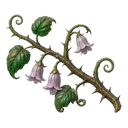
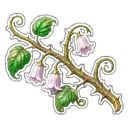
v237: het bloeiende takje, het toverspreukboek en de vonk zijn groter en duidelijker

diff --git a/bundel.js b/bundel.js
@@ -164,7 +164,7 @@ ${T?'<button class="knop volgende" id="gsdirect" style="font-size:1.35em;padding
  <section class="kaart hwblok"><h3>\u{1F4DC} Het verhaal</h3><ul class="hwverh">${g.map((ce,fe)=>{const me=ce.d<=U.i;return`<li class="${me?"":"dicht"}">${me?`<button class="linkknop" data-sc="${fe}">${A.sc[fe]?"":'<b class="hwnieuw">Nieuw</b> '}${ce.t}</button>`:`<span>\u{1F512} ${ce.t}</span><small>vanaf ${i(U.j,ce.d)}</small>`}</li>`}).join("")}</ul></section>
  </div>`);const Q=$("#hwclaim");Q&&(Q.onclick=T),document.querySelectorAll("[data-sc]").forEach(ce=>ce.onclick=()=>{const fe=+ce.dataset.sc;x(g[fe],()=>{A.sc[fe]||(A.sc[fe]=1,s(10,"verhaal"),toast("\u{1F4DC} +10 Pompoensnoepjes van Henk")),V.halloween()})}),document.querySelectorAll(".hwopties [data-o]").forEach(ce=>ce.onclick=()=>{const fe=+ce.dataset.o,me=m[N],Le=$("#hwraadres");if(fe===me[2]){A.raad[N]=1,s(15,"raadsel"),S.galjoenen+=10,bewaar();try{stats(),fx.speel("goed"),vib([20,30,40])}catch{}Le.innerHTML=`<div class="hwgoed">${window.tilly?tilly("<b>Goed zo!</b> "+me[3]):""}<p>+15 Pompoensnoepjes \xB7 +10 Smekkies</p><button class="knop klein" id="hwrv">Verder</button></div>`,document.querySelectorAll(".hwopties button").forEach(He=>He.disabled=!0),$("#hwrv").onclick=()=>V.halloween()}else{ce.disabled=!0,ce.classList.add("mis");try{fx.speel("kras")}catch{}Le.innerHTML='<p class="klein hwhint">Hmm, dat is het niet. Probeer gerust nog eens, er is geen haast.</p>'}})};const Z=V.kamer;Z&&(V.kamer=(...U)=>{const A=Z(...U);try{const N=document.querySelector(".kamer");N&&(S.hwTrofee||[]).length&&!N.querySelector(".hwtrofee")&&N.insertAdjacentHTML("beforeend",`<div class="hwtrofee" title="Gouden Pompoen ${S.hwTrofee.join(", ")}"><img src="img/hw/trofee-256.webp" alt="Gouden Pompoen"><small>Halloween ${S.hwTrofee.join(" \xB7 ")}</small></div>`)}catch{}return A});try{if(typeof KAARTEN<"u"&&!KAARTEN.some(U=>U[0]==L)&&(KAARTEN.push([L,"Z","Het huisspook van Griffoendor. Zijn hoofd hangt nog aan \xE9\xE9n reepje vel. Op 31 oktober vierde hij zijn vijfhonderdste sterfdag, en jij was erbij.","img/kaarten/haast-onthoofde-henk.webp","Feestdagen",1]),window.KAARTSERIES&&!KAARTSERIES.includes("Feestdagen")&&KAARTSERIES.push("Feestdagen")),typeof trekKaart=="function"){const U=trekKaart;trekKaart=function(){let A;for(let N=0;N<30;N++)if(A=U(),!A||!A[5])return A;return KAARTEN.find(N=>!N[5])}}}catch(U){console.warn(U)}const ee=V.maker;ee&&(V.maker=(...U)=>{const A=ee(...U);try{const N=o(),Q=localStorage.getItem("zw_hwdatum")||"";$("#app").insertAdjacentHTML("beforeend",`<section class="kaart sierlijst"><h3>Halloween (test)</h3><p class="klein">Nu: ${N.d.toLocaleDateString("nl-NL",{weekday:"long",day:"numeric",month:"long"})} \xB7 ${N.aan?"event AAN (dag "+(N.i+1)+" van 9"+(N.feest?", feestdag":"")+")":"event uit"}${Q?" \xB7 <b>testdatum</b>":""} \xB7 ${(S.hw&&S.hw.tot)|0} snoepjes, stap ${(S.hw&&S.hw.stap)|0}/10</p>
   <p><input type="date" id="hwdat" value="${Q||N.d.getFullYear()+"-"+e(N.d.getMonth()+1)+"-"+e(N.d.getDate())}"> <button class="knop klein" id="hwzet">Gebruik datum</button> <button class="knop klein" id="hwecht">Echte datum</button></p>
-  <p><button class="knop klein" id="hw100">+100 snoepjes</button> <button class="knop klein" id="hwwis">Halloween-voortgang wissen</button></p></section>`),$("#hwzet").onclick=()=>{localStorage.setItem("zw_hwdatum",$("#hwdat").value),te(),V.maker()},$("#hwecht").onclick=()=>{localStorage.removeItem("zw_hwdatum"),te(),V.maker()},$("#hw100").onclick=()=>{s(100,"test"),V.maker()},$("#hwwis").onclick=()=>{delete S.hw,bewaar(),V.maker()}}catch(N){console.warn(N)}return A})})(),(function(){const e="v236";window.ZW_VERSIE=e;const n=()=>`<p class="zwversie">Zweinstein Luna ${e}</p>`,a=V.meer;a&&(V.meer=(...i)=>{const r=a(...i);try{const l=$("#app");l&&!l.querySelector(".zwversie")&&l.insertAdjacentHTML("beforeend",n())}catch{}return r});const o=V.maker;o&&(V.maker=(...i)=>{const r=o(...i);try{const l=$("#app h2");l&&!$("#app .zwversie")&&l.insertAdjacentHTML("afterend",n())}catch{}return r})})(),(()=>{if(typeof m3Winst!="function"||typeof Bord>"u")return;const e=matchMedia("(prefers-reduced-motion: reduce)").matches,n=h=>new Promise(f=>setTimeout(f,h));let a=0,o=0;function i(){let h=document.getElementById("m3sc");if(!h){const f=document.querySelector(".m3mid .m3titel");if(!f)return null;f.insertAdjacentHTML("afterend",'<div class="m3score">Score <b id="m3sc">0</b></div>'),h=document.getElementById("m3sc"),a=0}return h}setInterval(()=>{try{if(typeof M3>"u"||!M3.b||M3.b.sim||document.body.dataset.view!=="match3")return;const h=i();if(!h)return;o=M3.b.score|0,a>o&&(a=o),a<o&&(a=Math.min(o,a+Math.max(5,Math.ceil((o-a)/4))),h.textContent=a.toLocaleString("nl-NL")),p(M3.b)}catch{}},60);let r=null,l=-1;function p(h){const f=document.getElementById("m3bv");if(!f||!h._grens)return;r!==h&&(r=h,l=-1);const K=Math.min(100,a/h._max*100);Math.abs(K-l)>=.2&&(l=K,f.style.width=K.toFixed(1)+"%");const E=document.querySelectorAll("#m3balk .m3bs"),g=[h.klaar&&h.klaar(),a>=h._grens[0],a>=h._grens[1]];E.forEach((x,m)=>{if(g[m]&&!x.classList.contains("aan")){if(x.classList.add("aan","pop"),setTimeout(()=>x.classList.remove("pop"),600),m)try{fx.speel("munt")}catch{}}else!g[m]&&x.classList.contains("aan")&&x.classList.remove("aan")})}const w=h=>{const f=[];for(let K=0;K<RIJEN;K++)for(let E=0;E<KOL;E++){const g=h.g[K][E];g&&g.k>=0&&!g.s&&!h.kist[K][E]&&!(h.strik&&h.strik[K][E])&&f.push([K,E])}return f},y=h=>{const f=[];for(let K=0;K<RIJEN;K++)for(let E=0;E<KOL;E++){const g=h.g[K][E];g&&g.s&&!h.kist[K][E]&&!(h.strik&&h.strik[K][E])&&f.push([K,E])}return f};function d(h,f,K){if(e||!h||!f)return;const E=document.createElement("div");E.className="m3vonk",document.body.appendChild(E);const g=f[0]-h[0],x=f[1]-h[1];E.style.left=h[0]+"px",E.style.top=h[1]+"px",E.animate([{transform:"translate(-50%,-50%) scale(.6)",opacity:.2},{transform:`translate(calc(${g*.5}px - 50%),calc(${x*.5-40}px - 50%)) scale(1.1)`,opacity:1,offset:.5},{transform:`translate(calc(${g}px - 50%),calc(${x}px - 50%)) scale(.7)`,opacity:.9}],{duration:K,easing:"cubic-bezier(.4,0,.3,1)",fill:"forwards"}).onfinish=()=>E.remove(),setTimeout(()=>E.remove(),K+400)}function j(h,f,K){const E=document.createElement("div");E.className="m3plus",E.textContent=K,E.style.left=h+"px",E.style.top=f+"px",document.body.appendChild(E),setTimeout(()=>E.remove(),900)}async function u(h){const f={pop:0,boem:0,spec:0,score0:h.score|0};window._feestLog=f;const K=document.getElementById("m3c"),E=document.getElementById("m3z");if(!K||!E)return;const g=(h._feestZet!=null?h._feestZet:h.zet)|0;let x=g,m=1,k=0;h.telDoel=()=>{},h.zaadKist=1;const v=h.fx.push;h.fx.push=function(...se){return v.apply(this,se.map(ae=>ae&&ae.t=="schat"?{t:"tik",r:ae.r,c:ae.c,s:ae.s}:ae&&ae.t=="vrij"?{t:"plank",r:ae.r,c:ae.c,over:0}:ae))},h.wacht=se=>new Promise(ae=>setTimeout(ae,se/m));const s=document.createElement("div");s.id="m3feest",s.innerHTML="<span>Tik om te versnellen</span>",document.body.appendChild(s),s.addEventListener("pointerdown",se=>{se.preventDefault(),k++,m=Math.min(12,k==1?3.5:m*1.7),s.classList.add("snel"),s.querySelector("span").textContent=m>=6?"\u23E9\u23E9 Supersnel":"\u23E9 Sneller";try{fx.speel("whoosh")}catch{}});const z=()=>K.getBoundingClientRect(),c=()=>z().width/KOL,b=(se,ae)=>{const te=z(),pe=te.width/KOL;return[te.left+(ae+.5)*pe,te.top+(se+.5)*pe]},M=()=>{const se=E.getBoundingClientRect();return[se.left+se.width/2,se.top+se.height/2]},R=Math.max(70,Math.min(170,4200/Math.max(1,g)));try{for(let te=1;te<=g;te++){const pe=w(h);if(!pe.length)break;const ne=R/m,X=pe[Math.random()*pe.length|0];d(M(),b(...X),Math.max(60,ne*1.1)),x--,E.textContent=x,E.parentNode.classList.toggle("weinig",!1),await n(Math.max(40,ne*1.05));const[t,_]=X;if(te%5===0){const O=[];for(let de=t-1;de<=t+1;de++)for(let C=_-1;C<=_+1;C++)if(h.binnen(de,C)){const T=h.g[de][C];T&&T.k>=0&&!T.s&&!h.kist[de][C]&&!(h.strik&&h.strik[de][C])&&O.push([de,C,T.k])}O.forEach(([de,C,T])=>{h.g[de][C].weg=1,h.g[de][C]=null,h.fx.push({t:"pof",r:de,c:C,k:T})}),h.fx.push({t:"bom",r:t,c:_,R:1});const D=60*O.length+200;h.score+=D,f.boem++;const q=b(t,_);j(q[0],q[1],"+"+D);try{fx.speel("kist")}catch{}}else{const O=h.g[t][_];O&&(O.weg=1,h.g[t][_]=null,h.fx.push({t:"pof",r:t,c:_,k:O.k})),h.score+=100,f.pop++;const D=b(t,_);te%2&&j(D[0],D[1],"+100");try{fx.speel("klik")}catch{}}try{M3.toonFx()}catch{}h.val()}E.textContent=0,await n(Math.max(60,260/m)),await M3.knal([]);const se=Date.now();let ae=0;for(;ae<30&&Date.now()-se<9e3;){const te=y(h);if(!te.length)break;const pe=te.sort((_,O)=>_[0]-O[0]||_[1]-O[1])[0],ne=b(...pe),X=h.score;if(!await M3.knal([pe])){await n(120),ae++;continue}h.score+=150,f.spec++,ae++,j(ne[0],ne[1],"+"+(h.score-X|0));try{fx.speel("tover")}catch{}await n(Math.max(40,180/m))}await n(Math.max(80,350/m))}catch(se){console.warn(se)}finally{s.remove(),delete h.telDoel,delete h.wacht,h.fx.push=v,E.textContent=g,f.score=h.score|0,f.sp=m;const se=i();se&&(a=h.score|0,se.textContent=a.toLocaleString("nl-NL"))}}const L=m3Winst;window.m3Winst=m3Winst=function(h,f,...K){let E=!1;try{E=!!(f&&!f.sim&&!f._feest&&f.zet>0&&typeof M3<"u"&&M3.b===f&&M3.knal&&document.getElementById("m3c")&&document.body.dataset.view==="match3")}catch{}const g=()=>{let k;try{k=L.call(this,h,f,...K)}finally{try{ECO.winKlaar(h)}catch{}}try{const v=f.score|0,s=document.querySelector(".m3eind h2");s&&v&&!document.querySelector(".m3eindscore")&&s.insertAdjacentHTML("afterend",`<p class="m3eindscore">Score <b>${v.toLocaleString("nl-NL")}</b></p>`)}catch{}return k};if(!E)return g();f._feest=1;try{ECO.winStart(h,f)}catch{}let x=!1;const m=()=>{x||(x=!0,g())};u(f).catch(k=>console.warn(k)).finally(m),setTimeout(m,3e4)}})(),(()=>{if(typeof V>"u"||!V.mijnkas)return;const e=m=>typeof m=="function",n=()=>S.m3lvl|0,a=m=>typeof ZADEN<"u"&&ZADEN[m]?ZADEN[m][0]:m,o=()=>Date.now(),i=[1e3,1600,2400,3200],r=["de groene kruidenpot","de Edelsteenpot","de Kristalpot","de Hartpot"];function l(){const m=[];return document.querySelectorAll(".mk-pot[data-i]").forEach(k=>m.push({i:+k.dataset.i,el:k,sel:`.mk-pot[data-i="${k.dataset.i}"]`})),document.querySelectorAll(".mk-vloer[data-m]").forEach(k=>{const v=+k.dataset.m;S.mega&&S.mega[v]||m.push({i:200+v,el:k,sel:`.mk-vloer[data-m="${v}"]`})}),m}const p=m=>(S.kweek||{})[m]||null,w=m=>e(window.stadium)||typeof stadium=="function"?stadium(m):-1;function y(m){return Object.keys(S.zaden||{}).filter(k=>(S.zaden[k]|0)>0&&typeof ZADEN<"u"&&ZADEN[k]&&(typeof kruidMag!="function"||kruidMag(k,m)))}function d(){if(typeof ZADEN>"u")return null;let m=null;return Object.entries(ZADEN).forEach(([k,v])=>{window.SUPERPLANTEN&&SUPERPLANTEN[k]||window.zaadDicht&&zaadDicht(k)||typeof kruidSlot=="function"&&kruidSlot(k)||(!m||v[3]<m[1])&&(m=[k,v[3]])}),m}function j(){const m=[],k=l(),v=k.filter(te=>!p(te.i)),s=k.filter(te=>p(te.i)&&w(p(te.i))<4),z=k.filter(te=>p(te.i)&&w(p(te.i))==4),c=S.galjoenen|0,b=window.leraarPoort&&leraarPoort();if(b){const te=i[0];m.push({id:"poort",ico:"\u{1FAB4}",wie:b.prof,tekst:c>=te?`Koop ${r[0]} bij Potten. Dan gaat level ${b.na+1} open.`:`Spaar voor ${r[0]}. Daarna gaat level ${b.na+1} open.`,tel:`${Math.min(c,te)}/${te}`,doel:"#potwinkel",doen:c>=te})}if(z.length){const te=z[0];m.push({id:"oogst",ico:"\u{1F33F}",tekst:z.length>1?`Oogst je planten! ${a(p(te.i).z)} is klaar, en nog ${z.length-1} andere.`:`Oogst je ${a(p(te.i).z)}. Hij is klaar!`,tel:null,doel:te.sel,doen:!0})}if(e(window.kOpdr)||typeof kOpdr=="function")try{const te=kOpdr(),pe=te[0],ne=window.zaadDicht&&zaadDicht(pe),X=typeof kruidSlot=="function"&&kruidSlot(pe),t=kOpdrTel();if(ne||X)m.push({id:"opdr",ico:"\u{1F4DC}",wie:te[3],tekst:te[2],tel:`${t}/${te[1]}`,dicht:ne?`Vanaf level ${ne}`:"Eerst de groene kruidenpot"});else{const _=s.find(C=>p(C.i).z===pe),O=v.find(C=>typeof kruidMag!="function"||kruidMag(pe,C.i));let D,q=null,de=!1;z.some(C=>p(C.i).z===pe)?(D=`Oogst je ${a(pe)}.`,q=z.find(C=>p(C.i).z===pe).sel,de=!0):_?(D=`Je ${a(pe)} groeit. Nog ${tijd(rest(p(_.i)))}.`,q=_.sel):(S.zaden[pe]|0)>0&&O?(D=`Plant een ${a(pe)}-zaadje.`,q=O.sel,de=!0):(S.zaden[pe]|0)>0?D=`Plant een ${a(pe)}-zaadje zodra er een pot vrij is.`:c>=ZADEN[pe][3]?(D=`Koop een ${a(pe)}-zaadje in de Winkel.`,q="#balkwinkel",de=!0):D=`Speel een level voor Smekkies voor een ${a(pe)}-zaadje.`,m.push({id:"opdr",ico:"\u{1F4DC}",wie:te[3],tekst:`${te[2]}. ${D}`,tel:`${t}/${te[1]}`,doel:q,doen:de})}}catch{}if(v.length){const te=v[0];if(y(te.i).length)m.push({id:"plant",ico:"\u{1F331}",tekst:"Plant een zaadje in je lege pot.",tel:null,doel:te.sel,doen:!0});else{const ne=d();ne&&c>=ne[1]&&m.push({id:"zaad",ico:"\u{1F6CD}\uFE0F",tekst:`Koop zaadjes in de Winkel (${a(ne[0])} kost ${ne[1]} Smekkies).`,doel:"#balkwinkel",doen:!0})}}const M=te=>window.spreukGeleerd&&spreukGeleerd(te),R=te=>!window.spreukOpen||spreukOpen(te),se=window.SPREUK_VAN||{flipendo:3,leviosa:6};if(window.waterMag&&waterMag())if(!S.kooiOpen)m.push({id:"kooi",ico:"\u{1F513}",tekst:"Open de kooi: tik op de knop met Flipendo naast het blok.",doel:".mk-kooiknop",doen:!0});else{const te=document.querySelector(".mk-kamer"),pe=te&&te.classList.contains("sproei"),X=1-((S.water||{}).blok|0),t=document.querySelector(`.mk-silos .mk-unit[data-i="${X}"] span`),_=t&&parseInt(t.textContent)>=100;!pe&&_&&m.push({id:"blok",ico:"\u{1F4A7}",tekst:"Een silo is vol! Laat het blok met Wingardium Leviosa naar de knop bij die silo zweven.",doel:".mk-blok",doen:!0})}else for(const[te,pe]of[["flipendo","Flipendo"],["leviosa","Wingardium Leviosa"]])if(!M(te)){R(te)?m.push({id:"les-"+te,ico:"\u{1FA84}",wie:"Professor Banning",tekst:`Leer ${pe} bij Professor Banning. Dan kan het water in je kas aan.`,doel:".mk-leviosa .knop",doen:!0}):m.push({id:"les-"+te,ico:"\u{1FA84}",wie:"Professor Banning",tekst:`Leer ${pe} voor de sproeiers.`,dicht:`Vanaf level ${se[te]}`});break}if(!document.querySelector(".mk-kamer.sproei")){const te=s.find(pe=>!(p(pe.i).nat>o()));te&&m.push({id:"water",ico:"\u{1F4A6}",tekst:`Geef je ${a(p(te.i).z)} water. Dan groeit hij 25% sneller.`,doel:te.sel,doen:!0})}try{const te=ne=>typeof telV=="function"?telV("oogst",ne):0;if(typeof dagQuests=="function"){const ne=dagQuests().find(X=>X[0]==="oogst");ne&&!(S.questKlaar||{})[vandaag()+"oogst"]&&te(0)<ne[1]&&m.push({id:"quest",ico:"\u{1F4CB}",tekst:ne[2]+".",tel:`${Math.min(ne[1],te(0))}/${ne[1]}`,info:1})}if((((S.tel||{})[vandaag()]||{}).oogst|0)<1&&m.push({id:"dagdoel",ico:"\u2B50",tekst:"Dagdoel: oogst vandaag een plant.",tel:"0/1",info:1}),typeof WEEKQ<"u"){const ne=WEEKQ.find(X=>X[0]==="oogst");ne&&te(1)<ne[1]&&m.push({id:"week",ico:"\u{1F4C5}",tekst:ne[2]+".",tel:`${Math.min(ne[1],te(1))}/${ne[1]}`,info:1})}}catch{}if(!b){const te=S.potUpgrade|0,pe=n()>=101||!!S.groteTafel||te>=3;te<4&&(te<2||pe)&&c>=i[te]&&m.push({id:"pot",ico:"\u{1F3FA}",tekst:`Je kunt ${r[te]} kopen bij Potten (${i[te]} Smekkies). Dan heb je plek voor een plant meer.`,doel:"#potwinkel",doen:!0})}return{T:m,groei:s}}function u(m){if(!m.length)return"Alles gedaan! Speel een level, dan verdien je Smekkies voor nieuwe zaadjes.";const k=Math.min(...m.map(v=>rest(p(v.i))));return`Alles gedaan! Kom terug als je planten klaar zijn (over ${tijd(k)}).`}let L=!1,h="";const f=m=>String(m).replace(/[&<>"]/g,k=>({"&":"&amp;","<":"&lt;",">":"&gt;",'"':"&quot;"})[k]);function K(m){if(document.body.dataset.view!=="mijnkas")return;const k=document.getElementById("app");if(!k||!k.querySelector(".mk-kamer"))return;const{T:v,groei:s}=j(),c=v.filter(ae=>ae.doen&&!ae.dicht)[0]||null,b=v.filter(ae=>ae!==c),M=JSON.stringify([L,v.map(ae=>[ae.id,ae.tekst,ae.tel,ae.dicht]),c?"":u(s)]);if(!m&&M===h&&document.getElementById("kastaak"))return;h=M;let R=document.getElementById("kastaak");R||(R=document.createElement("section"),R.id="kastaak",R.className="kastaak",k.appendChild(R));const se=ae=>`<li class="${ae.dicht?"dicht":""}${ae.info?" info":""}"><span class="kt-ico">${ae.ico}</span><span class="kt-txt">${ae.wie&&!ae.tekst.includes(ae.wie)?`<b>${f(ae.wie)}:</b> `:""}${f(ae.tekst)}${ae.dicht?` <em class="kt-slot">\u{1F512} ${f(ae.dicht)}</em>`:""}</span>${ae.tel?`<span class="kt-tel">${ae.tel}</span>`:""}${ae.doel&&!ae.dicht?`<button type="button" class="kt-wijs" data-doel="${f(ae.doel)}" aria-label="Laat zien waar">\u279C</button>`:""}</li>`;R.innerHTML=`<div class="kt-kop" role="button" aria-expanded="${L}"><span class="kt-label">${c?"Volgende stap":"Klaar voor nu"}</span>${b.length?`<span class="kt-meer">${L?"Minder \u25B4":`Nog ${b.length} \u25BE`}</span>`:""}</div>
+  <p><button class="knop klein" id="hw100">+100 snoepjes</button> <button class="knop klein" id="hwwis">Halloween-voortgang wissen</button></p></section>`),$("#hwzet").onclick=()=>{localStorage.setItem("zw_hwdatum",$("#hwdat").value),te(),V.maker()},$("#hwecht").onclick=()=>{localStorage.removeItem("zw_hwdatum"),te(),V.maker()},$("#hw100").onclick=()=>{s(100,"test"),V.maker()},$("#hwwis").onclick=()=>{delete S.hw,bewaar(),V.maker()}}catch(N){console.warn(N)}return A})})(),(function(){const e="v237";window.ZW_VERSIE=e;const n=()=>`<p class="zwversie">Zweinstein Luna ${e}</p>`,a=V.meer;a&&(V.meer=(...i)=>{const r=a(...i);try{const l=$("#app");l&&!l.querySelector(".zwversie")&&l.insertAdjacentHTML("beforeend",n())}catch{}return r});const o=V.maker;o&&(V.maker=(...i)=>{const r=o(...i);try{const l=$("#app h2");l&&!$("#app .zwversie")&&l.insertAdjacentHTML("afterend",n())}catch{}return r})})(),(()=>{if(typeof m3Winst!="function"||typeof Bord>"u")return;const e=matchMedia("(prefers-reduced-motion: reduce)").matches,n=h=>new Promise(f=>setTimeout(f,h));let a=0,o=0;function i(){let h=document.getElementById("m3sc");if(!h){const f=document.querySelector(".m3mid .m3titel");if(!f)return null;f.insertAdjacentHTML("afterend",'<div class="m3score">Score <b id="m3sc">0</b></div>'),h=document.getElementById("m3sc"),a=0}return h}setInterval(()=>{try{if(typeof M3>"u"||!M3.b||M3.b.sim||document.body.dataset.view!=="match3")return;const h=i();if(!h)return;o=M3.b.score|0,a>o&&(a=o),a<o&&(a=Math.min(o,a+Math.max(5,Math.ceil((o-a)/4))),h.textContent=a.toLocaleString("nl-NL")),p(M3.b)}catch{}},60);let r=null,l=-1;function p(h){const f=document.getElementById("m3bv");if(!f||!h._grens)return;r!==h&&(r=h,l=-1);const K=Math.min(100,a/h._max*100);Math.abs(K-l)>=.2&&(l=K,f.style.width=K.toFixed(1)+"%");const E=document.querySelectorAll("#m3balk .m3bs"),g=[h.klaar&&h.klaar(),a>=h._grens[0],a>=h._grens[1]];E.forEach((x,m)=>{if(g[m]&&!x.classList.contains("aan")){if(x.classList.add("aan","pop"),setTimeout(()=>x.classList.remove("pop"),600),m)try{fx.speel("munt")}catch{}}else!g[m]&&x.classList.contains("aan")&&x.classList.remove("aan")})}const w=h=>{const f=[];for(let K=0;K<RIJEN;K++)for(let E=0;E<KOL;E++){const g=h.g[K][E];g&&g.k>=0&&!g.s&&!h.kist[K][E]&&!(h.strik&&h.strik[K][E])&&f.push([K,E])}return f},y=h=>{const f=[];for(let K=0;K<RIJEN;K++)for(let E=0;E<KOL;E++){const g=h.g[K][E];g&&g.s&&!h.kist[K][E]&&!(h.strik&&h.strik[K][E])&&f.push([K,E])}return f};function d(h,f,K){if(e||!h||!f)return;const E=document.createElement("div");E.className="m3vonk",document.body.appendChild(E);const g=f[0]-h[0],x=f[1]-h[1];E.style.left=h[0]+"px",E.style.top=h[1]+"px",E.animate([{transform:"translate(-50%,-50%) scale(.6)",opacity:.2},{transform:`translate(calc(${g*.5}px - 50%),calc(${x*.5-40}px - 50%)) scale(1.1)`,opacity:1,offset:.5},{transform:`translate(calc(${g}px - 50%),calc(${x}px - 50%)) scale(.7)`,opacity:.9}],{duration:K,easing:"cubic-bezier(.4,0,.3,1)",fill:"forwards"}).onfinish=()=>E.remove(),setTimeout(()=>E.remove(),K+400)}function j(h,f,K){const E=document.createElement("div");E.className="m3plus",E.textContent=K,E.style.left=h+"px",E.style.top=f+"px",document.body.appendChild(E),setTimeout(()=>E.remove(),900)}async function u(h){const f={pop:0,boem:0,spec:0,score0:h.score|0};window._feestLog=f;const K=document.getElementById("m3c"),E=document.getElementById("m3z");if(!K||!E)return;const g=(h._feestZet!=null?h._feestZet:h.zet)|0;let x=g,m=1,k=0;h.telDoel=()=>{},h.zaadKist=1;const v=h.fx.push;h.fx.push=function(...se){return v.apply(this,se.map(ae=>ae&&ae.t=="schat"?{t:"tik",r:ae.r,c:ae.c,s:ae.s}:ae&&ae.t=="vrij"?{t:"plank",r:ae.r,c:ae.c,over:0}:ae))},h.wacht=se=>new Promise(ae=>setTimeout(ae,se/m));const s=document.createElement("div");s.id="m3feest",s.innerHTML="<span>Tik om te versnellen</span>",document.body.appendChild(s),s.addEventListener("pointerdown",se=>{se.preventDefault(),k++,m=Math.min(12,k==1?3.5:m*1.7),s.classList.add("snel"),s.querySelector("span").textContent=m>=6?"\u23E9\u23E9 Supersnel":"\u23E9 Sneller";try{fx.speel("whoosh")}catch{}});const z=()=>K.getBoundingClientRect(),c=()=>z().width/KOL,b=(se,ae)=>{const te=z(),pe=te.width/KOL;return[te.left+(ae+.5)*pe,te.top+(se+.5)*pe]},M=()=>{const se=E.getBoundingClientRect();return[se.left+se.width/2,se.top+se.height/2]},R=Math.max(70,Math.min(170,4200/Math.max(1,g)));try{for(let te=1;te<=g;te++){const pe=w(h);if(!pe.length)break;const ne=R/m,X=pe[Math.random()*pe.length|0];d(M(),b(...X),Math.max(60,ne*1.1)),x--,E.textContent=x,E.parentNode.classList.toggle("weinig",!1),await n(Math.max(40,ne*1.05));const[t,_]=X;if(te%5===0){const O=[];for(let de=t-1;de<=t+1;de++)for(let C=_-1;C<=_+1;C++)if(h.binnen(de,C)){const T=h.g[de][C];T&&T.k>=0&&!T.s&&!h.kist[de][C]&&!(h.strik&&h.strik[de][C])&&O.push([de,C,T.k])}O.forEach(([de,C,T])=>{h.g[de][C].weg=1,h.g[de][C]=null,h.fx.push({t:"pof",r:de,c:C,k:T})}),h.fx.push({t:"bom",r:t,c:_,R:1});const D=60*O.length+200;h.score+=D,f.boem++;const q=b(t,_);j(q[0],q[1],"+"+D);try{fx.speel("kist")}catch{}}else{const O=h.g[t][_];O&&(O.weg=1,h.g[t][_]=null,h.fx.push({t:"pof",r:t,c:_,k:O.k})),h.score+=100,f.pop++;const D=b(t,_);te%2&&j(D[0],D[1],"+100");try{fx.speel("klik")}catch{}}try{M3.toonFx()}catch{}h.val()}E.textContent=0,await n(Math.max(60,260/m)),await M3.knal([]);const se=Date.now();let ae=0;for(;ae<30&&Date.now()-se<9e3;){const te=y(h);if(!te.length)break;const pe=te.sort((_,O)=>_[0]-O[0]||_[1]-O[1])[0],ne=b(...pe),X=h.score;if(!await M3.knal([pe])){await n(120),ae++;continue}h.score+=150,f.spec++,ae++,j(ne[0],ne[1],"+"+(h.score-X|0));try{fx.speel("tover")}catch{}await n(Math.max(40,180/m))}await n(Math.max(80,350/m))}catch(se){console.warn(se)}finally{s.remove(),delete h.telDoel,delete h.wacht,h.fx.push=v,E.textContent=g,f.score=h.score|0,f.sp=m;const se=i();se&&(a=h.score|0,se.textContent=a.toLocaleString("nl-NL"))}}const L=m3Winst;window.m3Winst=m3Winst=function(h,f,...K){let E=!1;try{E=!!(f&&!f.sim&&!f._feest&&f.zet>0&&typeof M3<"u"&&M3.b===f&&M3.knal&&document.getElementById("m3c")&&document.body.dataset.view==="match3")}catch{}const g=()=>{let k;try{k=L.call(this,h,f,...K)}finally{try{ECO.winKlaar(h)}catch{}}try{const v=f.score|0,s=document.querySelector(".m3eind h2");s&&v&&!document.querySelector(".m3eindscore")&&s.insertAdjacentHTML("afterend",`<p class="m3eindscore">Score <b>${v.toLocaleString("nl-NL")}</b></p>`)}catch{}return k};if(!E)return g();f._feest=1;try{ECO.winStart(h,f)}catch{}let x=!1;const m=()=>{x||(x=!0,g())};u(f).catch(k=>console.warn(k)).finally(m),setTimeout(m,3e4)}})(),(()=>{if(typeof V>"u"||!V.mijnkas)return;const e=m=>typeof m=="function",n=()=>S.m3lvl|0,a=m=>typeof ZADEN<"u"&&ZADEN[m]?ZADEN[m][0]:m,o=()=>Date.now(),i=[1e3,1600,2400,3200],r=["de groene kruidenpot","de Edelsteenpot","de Kristalpot","de Hartpot"];function l(){const m=[];return document.querySelectorAll(".mk-pot[data-i]").forEach(k=>m.push({i:+k.dataset.i,el:k,sel:`.mk-pot[data-i="${k.dataset.i}"]`})),document.querySelectorAll(".mk-vloer[data-m]").forEach(k=>{const v=+k.dataset.m;S.mega&&S.mega[v]||m.push({i:200+v,el:k,sel:`.mk-vloer[data-m="${v}"]`})}),m}const p=m=>(S.kweek||{})[m]||null,w=m=>e(window.stadium)||typeof stadium=="function"?stadium(m):-1;function y(m){return Object.keys(S.zaden||{}).filter(k=>(S.zaden[k]|0)>0&&typeof ZADEN<"u"&&ZADEN[k]&&(typeof kruidMag!="function"||kruidMag(k,m)))}function d(){if(typeof ZADEN>"u")return null;let m=null;return Object.entries(ZADEN).forEach(([k,v])=>{window.SUPERPLANTEN&&SUPERPLANTEN[k]||window.zaadDicht&&zaadDicht(k)||typeof kruidSlot=="function"&&kruidSlot(k)||(!m||v[3]<m[1])&&(m=[k,v[3]])}),m}function j(){const m=[],k=l(),v=k.filter(te=>!p(te.i)),s=k.filter(te=>p(te.i)&&w(p(te.i))<4),z=k.filter(te=>p(te.i)&&w(p(te.i))==4),c=S.galjoenen|0,b=window.leraarPoort&&leraarPoort();if(b){const te=i[0];m.push({id:"poort",ico:"\u{1FAB4}",wie:b.prof,tekst:c>=te?`Koop ${r[0]} bij Potten. Dan gaat level ${b.na+1} open.`:`Spaar voor ${r[0]}. Daarna gaat level ${b.na+1} open.`,tel:`${Math.min(c,te)}/${te}`,doel:"#potwinkel",doen:c>=te})}if(z.length){const te=z[0];m.push({id:"oogst",ico:"\u{1F33F}",tekst:z.length>1?`Oogst je planten! ${a(p(te.i).z)} is klaar, en nog ${z.length-1} andere.`:`Oogst je ${a(p(te.i).z)}. Hij is klaar!`,tel:null,doel:te.sel,doen:!0})}if(e(window.kOpdr)||typeof kOpdr=="function")try{const te=kOpdr(),pe=te[0],ne=window.zaadDicht&&zaadDicht(pe),X=typeof kruidSlot=="function"&&kruidSlot(pe),t=kOpdrTel();if(ne||X)m.push({id:"opdr",ico:"\u{1F4DC}",wie:te[3],tekst:te[2],tel:`${t}/${te[1]}`,dicht:ne?`Vanaf level ${ne}`:"Eerst de groene kruidenpot"});else{const _=s.find(C=>p(C.i).z===pe),O=v.find(C=>typeof kruidMag!="function"||kruidMag(pe,C.i));let D,q=null,de=!1;z.some(C=>p(C.i).z===pe)?(D=`Oogst je ${a(pe)}.`,q=z.find(C=>p(C.i).z===pe).sel,de=!0):_?(D=`Je ${a(pe)} groeit. Nog ${tijd(rest(p(_.i)))}.`,q=_.sel):(S.zaden[pe]|0)>0&&O?(D=`Plant een ${a(pe)}-zaadje.`,q=O.sel,de=!0):(S.zaden[pe]|0)>0?D=`Plant een ${a(pe)}-zaadje zodra er een pot vrij is.`:c>=ZADEN[pe][3]?(D=`Koop een ${a(pe)}-zaadje in de Winkel.`,q="#balkwinkel",de=!0):D=`Speel een level voor Smekkies voor een ${a(pe)}-zaadje.`,m.push({id:"opdr",ico:"\u{1F4DC}",wie:te[3],tekst:`${te[2]}. ${D}`,tel:`${t}/${te[1]}`,doel:q,doen:de})}}catch{}if(v.length){const te=v[0];if(y(te.i).length)m.push({id:"plant",ico:"\u{1F331}",tekst:"Plant een zaadje in je lege pot.",tel:null,doel:te.sel,doen:!0});else{const ne=d();ne&&c>=ne[1]&&m.push({id:"zaad",ico:"\u{1F6CD}\uFE0F",tekst:`Koop zaadjes in de Winkel (${a(ne[0])} kost ${ne[1]} Smekkies).`,doel:"#balkwinkel",doen:!0})}}const M=te=>window.spreukGeleerd&&spreukGeleerd(te),R=te=>!window.spreukOpen||spreukOpen(te),se=window.SPREUK_VAN||{flipendo:3,leviosa:6};if(window.waterMag&&waterMag())if(!S.kooiOpen)m.push({id:"kooi",ico:"\u{1F513}",tekst:"Open de kooi: tik op de knop met Flipendo naast het blok.",doel:".mk-kooiknop",doen:!0});else{const te=document.querySelector(".mk-kamer"),pe=te&&te.classList.contains("sproei"),X=1-((S.water||{}).blok|0),t=document.querySelector(`.mk-silos .mk-unit[data-i="${X}"] span`),_=t&&parseInt(t.textContent)>=100;!pe&&_&&m.push({id:"blok",ico:"\u{1F4A7}",tekst:"Een silo is vol! Laat het blok met Wingardium Leviosa naar de knop bij die silo zweven.",doel:".mk-blok",doen:!0})}else for(const[te,pe]of[["flipendo","Flipendo"],["leviosa","Wingardium Leviosa"]])if(!M(te)){R(te)?m.push({id:"les-"+te,ico:"\u{1FA84}",wie:"Professor Banning",tekst:`Leer ${pe} bij Professor Banning. Dan kan het water in je kas aan.`,doel:".mk-leviosa .knop",doen:!0}):m.push({id:"les-"+te,ico:"\u{1FA84}",wie:"Professor Banning",tekst:`Leer ${pe} voor de sproeiers.`,dicht:`Vanaf level ${se[te]}`});break}if(!document.querySelector(".mk-kamer.sproei")){const te=s.find(pe=>!(p(pe.i).nat>o()));te&&m.push({id:"water",ico:"\u{1F4A6}",tekst:`Geef je ${a(p(te.i).z)} water. Dan groeit hij 25% sneller.`,doel:te.sel,doen:!0})}try{const te=ne=>typeof telV=="function"?telV("oogst",ne):0;if(typeof dagQuests=="function"){const ne=dagQuests().find(X=>X[0]==="oogst");ne&&!(S.questKlaar||{})[vandaag()+"oogst"]&&te(0)<ne[1]&&m.push({id:"quest",ico:"\u{1F4CB}",tekst:ne[2]+".",tel:`${Math.min(ne[1],te(0))}/${ne[1]}`,info:1})}if((((S.tel||{})[vandaag()]||{}).oogst|0)<1&&m.push({id:"dagdoel",ico:"\u2B50",tekst:"Dagdoel: oogst vandaag een plant.",tel:"0/1",info:1}),typeof WEEKQ<"u"){const ne=WEEKQ.find(X=>X[0]==="oogst");ne&&te(1)<ne[1]&&m.push({id:"week",ico:"\u{1F4C5}",tekst:ne[2]+".",tel:`${Math.min(ne[1],te(1))}/${ne[1]}`,info:1})}}catch{}if(!b){const te=S.potUpgrade|0,pe=n()>=101||!!S.groteTafel||te>=3;te<4&&(te<2||pe)&&c>=i[te]&&m.push({id:"pot",ico:"\u{1F3FA}",tekst:`Je kunt ${r[te]} kopen bij Potten (${i[te]} Smekkies). Dan heb je plek voor een plant meer.`,doel:"#potwinkel",doen:!0})}return{T:m,groei:s}}function u(m){if(!m.length)return"Alles gedaan! Speel een level, dan verdien je Smekkies voor nieuwe zaadjes.";const k=Math.min(...m.map(v=>rest(p(v.i))));return`Alles gedaan! Kom terug als je planten klaar zijn (over ${tijd(k)}).`}let L=!1,h="";const f=m=>String(m).replace(/[&<>"]/g,k=>({"&":"&amp;","<":"&lt;",">":"&gt;",'"':"&quot;"})[k]);function K(m){if(document.body.dataset.view!=="mijnkas")return;const k=document.getElementById("app");if(!k||!k.querySelector(".mk-kamer"))return;const{T:v,groei:s}=j(),c=v.filter(ae=>ae.doen&&!ae.dicht)[0]||null,b=v.filter(ae=>ae!==c),M=JSON.stringify([L,v.map(ae=>[ae.id,ae.tekst,ae.tel,ae.dicht]),c?"":u(s)]);if(!m&&M===h&&document.getElementById("kastaak"))return;h=M;let R=document.getElementById("kastaak");R||(R=document.createElement("section"),R.id="kastaak",R.className="kastaak",k.appendChild(R));const se=ae=>`<li class="${ae.dicht?"dicht":""}${ae.info?" info":""}"><span class="kt-ico">${ae.ico}</span><span class="kt-txt">${ae.wie&&!ae.tekst.includes(ae.wie)?`<b>${f(ae.wie)}:</b> `:""}${f(ae.tekst)}${ae.dicht?` <em class="kt-slot">\u{1F512} ${f(ae.dicht)}</em>`:""}</span>${ae.tel?`<span class="kt-tel">${ae.tel}</span>`:""}${ae.doel&&!ae.dicht?`<button type="button" class="kt-wijs" data-doel="${f(ae.doel)}" aria-label="Laat zien waar">\u279C</button>`:""}</li>`;R.innerHTML=`<div class="kt-kop" role="button" aria-expanded="${L}"><span class="kt-label">${c?"Volgende stap":"Klaar voor nu"}</span>${b.length?`<span class="kt-meer">${L?"Minder \u25B4":`Nog ${b.length} \u25BE`}</span>`:""}</div>
  <div class="kt-hoofd">${c?`<span class="kt-ico">${c.ico}</span><span class="kt-txt">${c.wie&&!c.tekst.includes(c.wie)?`<b>${f(c.wie)}:</b> `:""}${f(c.tekst)}</span>${c.tel?`<span class="kt-tel">${c.tel}</span>`:""}${c.doel?`<button type="button" class="kt-wijs groot" data-doel="${f(c.doel)}" aria-label="Laat zien waar">\u279C</button>`:""}`:`<span class="kt-ico">\u2728</span><span class="kt-txt">${f(u(s))}</span>`}</div>
  ${L&&b.length?`<ul class="kt-lijst">${b.map(se).join("")}</ul>`:""}`,R.querySelector(".kt-kop").onclick=()=>{L=!L,K(!0)},R.querySelector(".kt-hoofd").onclick=ae=>{ae.target.closest(".kt-wijs")||(b.length?(L=!L,K(!0)):c&&c.doel&&E(c.doel))},R.querySelectorAll(".kt-wijs").forEach(ae=>ae.onclick=te=>{te.stopPropagation(),E(ae.dataset.doel)}),c&&c.doel&&!E.gedaan&&(E.gedaan=1,setTimeout(()=>E(c.doel,1),900))}function E(m,k){const v=document.querySelector(m);if(v){try{v.scrollIntoView({behavior:matchMedia("(prefers-reduced-motion: reduce)").matches?"auto":"smooth",inline:"center",block:"nearest"})}catch{}if(document.querySelectorAll(".kt-gloed").forEach(s=>s.classList.remove("kt-gloed")),v.classList.add("kt-gloed"),clearTimeout(E.t),E.t=setTimeout(()=>v.classList.remove("kt-gloed"),k?3500:5e3),!k){L&&(L=!1,K(!0));try{fx.speel("klik")}catch{}}}}window.zwKasTaken=()=>j();const g=V.mijnkas;V.mijnkas=(...m)=>{const k=g(...m);try{h="",K(!0)}catch(v){console.warn(v)}return k};const x=ga;ga=function(m,...k){return m==="mijnkas"&&(E.gedaan=0),x(m,...k)},setInterval(()=>{try{document.body.dataset.view==="mijnkas"&&!document.querySelector(".modal")&&K()}catch{}},2e3)})(),(()=>{if(typeof KOPDR>"u"||typeof kOpdr!="function")return;const e=kOpdr,n=p=>window.ZAAD_VAN&&ZAAD_VAN[p]||1,a=p=>!(window.zaadDicht&&zaadDicht(p))&&!(typeof kruidSlot=="function"&&kruidSlot(p)),o=()=>KOPDR.map((p,w)=>({o:p,i:w})).sort((p,w)=>n(p.o[0])-n(w.o[0])||p.i-w.i),i=p=>KOPDR.find(w=>w[0]===p);function r(){S.kweekGedaan=S.kweekGedaan||{};const p=o().filter(w=>a(w.o[0]));return p.length?(p.sort((w,y)=>(S.kweekGedaan[w.o[0]]|0)-(S.kweekGedaan[y.o[0]]|0)||n(w.o[0])-n(y.o[0])||w.i-y.i),p[0].o):o()[0].o}function l(){const p=S.kweekOpdr|0;let w=S.kweekAct;if(w&&w.n!==p&&(w.n<p&&(S.kweekGedaan=S.kweekGedaan||{},S.kweekGedaan[w.z]=(S.kweekGedaan[w.z]|0)+(p-w.n)),w=null),w&&!i(w.z)&&(w=null),w&&!a(w.z)&&!((S.oogst||{})[w.z+"#"+p]>0)&&(w=null),!w){w={z:r()[0],n:p},S.kweekAct=w;try{bewaar()}catch{}}return i(w.z)}if(!S.kweekAct)try{const p=e(),w=S.kweekOpdr|0;(((S.oogst||{})[p[0]+"#"+w]|0)>0||a(p[0]))&&(S.kweekAct={z:p[0],n:w}),bewaar()}catch{}kOpdr=function(){try{return l()}catch{return e()}},window.zwKweekVolgorde=()=>o().map(p=>p.o[0]+"@"+n(p.o[0]))})(),(function(){"use strict";def("serieBel",{});const e={Tovenaars:"Kenner van de Tovenaars",Heksen:"Kenner van de Heksen",Beesten:"Vriend van de Beesten",Draken:"Drakenkenner",Reuzen:"Reuzenkundige",Kobolden:"Koboldenkundige",Vampiers:"Vampierdeskundige",Zwerkbal:"Zwerkbalverzamelaar",Bonus:"Erekandidaat van het album"};function n(){const h=typeof KAARTSERIES<"u"&&KAARTSERIES||window.KAARTSERIES||[],f=typeof KAARTEN<"u"&&KAARTEN||window.KAARTEN||[];return h.map(K=>{const E=f.filter(x=>x[4]===K),g=E.filter(x=>S.kaarten&&S.kaarten[x[0]]);return{naam:K,kaarten:E,heb:g,klaar:E.length>0&&g.length===E.length}})}function a(h,f={}){if(!h||!h.klaar||(S.serieBel||{})[h.naam])return!1;S.serieBel=S.serieBel||{},S.serieBel[h.naam]=1,S.titels=S.titels||[],S.titels.includes(e[h.naam]||h.naam)||S.titels.push(e[h.naam]||h.naam),bewaar();let K="";try{if(window.zeldzaamZaad){const g=zeldzaamZaad("album",{stil:1});K=g&&g.naam?g.naam:g||""}}catch{}const E=e[h.naam]||h.naam;if(!f.stil){const g=K?`Tilly: \u201CEen complete serie ${h.naam.toLowerCase()}! Je bent nu ${E}. En kijk, er lag een zeldzaam zaadje bij.\u201D`:`Tilly: \u201CEen complete serie ${h.naam.toLowerCase()}! Je bent nu ${E}.\u201D`;try{verhaal([["Tilly",g]],()=>{try{fx.speel("fanfare")}catch{}})}catch{try{toast("Serie "+h.naam+" compleet: "+E)}catch{}}}return!0}window.serieNaKaart=function(h){try{n().forEach(f=>a(f))}catch(f){console.warn(f)}};const o=V.album;V.album=function(){const h=n(),K=(typeof KAARTEN<"u"&&KAARTEN||window.KAARTEN||[]).length,E=Object.keys(S.kaarten||{}).length,g=h.map(x=>{const m=(S.serieBel||{})[x.naam],k=`<div class="aserkop"><h3>${x.naam}</h3><small>${x.heb.length}/${x.kaarten.length}${x.klaar?" \xB7 Compleet":""}${m?" \xB7 "+(e[x.naam]||""):""}</small></div>`,v=x.kaarten.map(s=>{const z=S.kaarten[s[0]]||0,c=z&&s[3]?`<img src="${s[3]}" alt="${s[0]}" loading="lazy">`:z?s[0].split(" ").map(b=>b[0]).join(""):"?";return`<div class="akaart ${z?"heb r"+s[1]:""}" title="${z?(s[2]||s[0]).replace(/"/g,""):"Nog niet gevonden"}"><div class="kfoto">${c}</div><b>${z?s[0]:"???"}</b><small>${z>1?"\xD7"+z:z?"&nbsp;":"nog te vinden"}</small></div>`}).join("");return`<section class="aserie ${x.klaar?"compleet":""}">${k}<div class="album">${v}</div></section>`}).join("");app(`<h1 class="pagkop">Kaartenalbum</h1><p>${E} van ${K} kaarten verzameld. Een complete serie geeft een titel, een korte sc\xE8ne en een zeldzaam zaadje. Dubbele kaarten bewaar je gewoon in je album.</p>${g}<p class="klein">Kaarten vind je in kistjes in de levels, als mijlpaal bij elk 10e level, als cadeau, in de bonuskamer en in Hagrids pompoenen.</p>`);try{h.forEach(x=>a(x))}catch{}};const i=typeof POST<"u"&&POST?POST:[["Tilly","Er kwam een uil voor je, Luna!"]];function r(){try{const h=typeof schoolDag=="function"?schoolDag():null,f=h&&h.inhoud?h.inhoud.titel:"je schooldag",K=i[Math.floor(Date.now()/864e5)%i.length],E=h?` Vandaag staat \u201C${f}\u201D op het programma.`:"";let g=K[1]||"";return g=g.replace(/\s*Er zaten 10 Smekkies bij\.?/gi,"").replace(/\s*Er zitten 10 Smekkies bij[,.]?/gi,"").replace(/\s*En hij stuurt 10 Smekkies mee\.?/gi,"").replace(/\s*alleen 10 glinsterende Smekkies en de woorden:/gi," de woorden:").replace(/\s*en de kaart danst nog steeds een beetje\.?/gi,".").trim(),[K[0],g+E]}catch{return i[0]}}function l(){const h=Date.now();return S.uilenpost?h-S.uilenpost>=2*864e5:(S.uilenpost=h,bewaar(),!1)}function p(){try{const h=j({geenPost:!0});return h?h.tekst:""}catch{return""}}const w=V.login;V.login=function(){const h=S.login||{dag:0,laatst:""},f=h.laatst===vandaag(),K=f?(h.dag+6)%7:h.dag%7;if(document.querySelector(".modal[data-pop=login],.modal[data-pop=ochtend]"))return;const E=!1,g=typeof LOGIN<"u"?LOGIN:[["15 Smekkies",{g:15}]],x=g[K],[m,k]=r(),v=p(),s=document.createElement("div");s.className="modal",s.dataset.pop="ochtend",s.innerHTML=`<div class="perkament modalin rococo ochtendpost">
     <p class="klein ochtenduil">Dagbeloning</p>

diff --git a/sw.js b/sw.js
@@ -1,4 +1,4 @@
-const C='zweinstein-v236';
+const C='zweinstein-v237';
 const F=["./", "index.html", "manifest.json", "CREDITS.txt", "bundel.css", "bundel.js", "img/icoon-192.png", "img/icoon-512.png", "img/lakzegel.webp", "img/sneeuwuil.webp", "img/perkament.webp", "img/perkament-sm.webp", "img/sterrenhemel-sm.webp", "img/hal-zaal-sm.webp", "img/ui/nav-hal-96.webp", "img/ui/nav-kaart-96.webp", "img/ui/nav-kassen-96.webp", "img/ui/nav-boek-96.webp", "img/ui/nav-meer-96.webp", "img/ui/nav-vrienden-96.webp", "img/ui/schild-64.webp", "img/smekkies/zak-half-128.webp", "img/laadschermen/herbologie-klein.webp", "tuin3d.html", "tuin3d.js", "tuin3d.css", "vendor/three.min.js","vendor/GLTFLoader.min.js", "assets/tuin3d/luna.glb", "assets/tuin3d/gargoyle.glb", "assets/tuin3d/dieren/hond.glb", "assets/tuin3d/dieren/kat.glb", "assets/tuin3d/dieren/vos.glb", "assets/tuin3d/dieren/arend.glb", "assets/tuin3d/dieren/kuiken.glb", "assets/tuin3d/tex/gras.webp", "assets/tuin3d/tex/kassei.webp", "assets/tuin3d/tex/kassei-n.webp", "assets/tuin3d/tex/zandsteen.webp", "assets/tuin3d/tex/zandsteen-n.webp", "assets/tuin3d/tex/leisteen.webp", "assets/tuin3d/tex/haag.webp", "assets/tuin3d/tex/steen.webp"];
 const KRITIEK=["./","index.html","bundel.js","bundel.css"];
 async function zetIn(c,u){

diff --git a/versie.js b/versie.js
@@ -1,5 +1,5 @@
 /* ====== v125 Versielabel: klein in Meer en in het makermenu, zodat je kunt zien welke versie een telefoon draait ====== */
-(function(){const VERSIE='v236';window.ZW_VERSIE=VERSIE;
+(function(){const VERSIE='v237';window.ZW_VERSIE=VERSIE;
  const label=()=>`<p class="zwversie">Zweinstein Luna ${VERSIE}</p>`;
  const _meer=V.meer;if(_meer)V.meer=(...a)=>{const r=_meer(...a);try{const app=$('#app');if(app&&!app.querySelector('.zwversie'))app.insertAdjacentHTML('beforeend',label())}catch(e){}return r};
  const _mk=V.maker;if(_mk)V.maker=(...a)=>{const r=_mk(...a);try{const h=$('#app h2');if(h&&!$('#app .zwversie'))h.insertAdjacentHTML('afterend',label())}catch(e){}return r};
